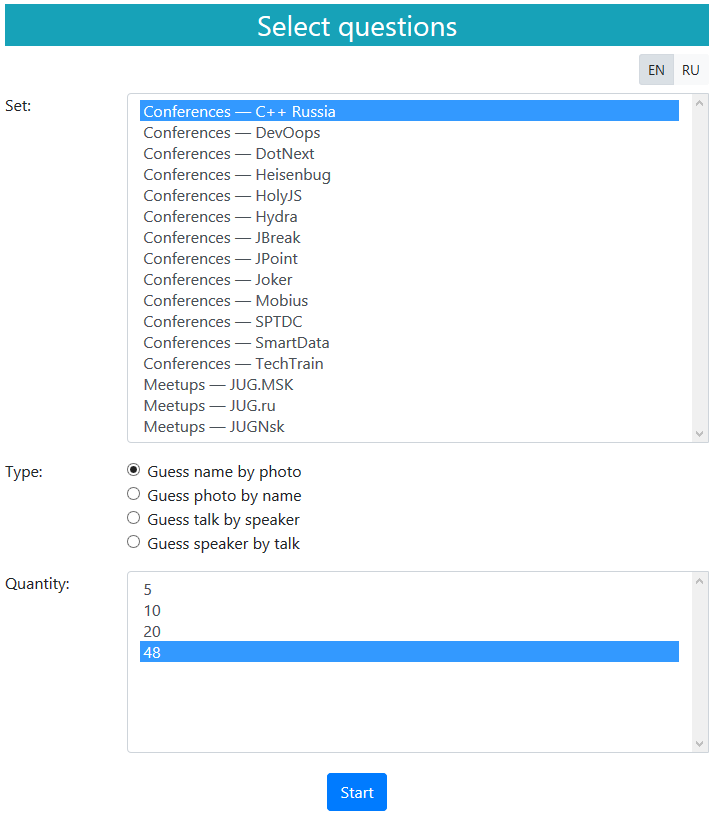
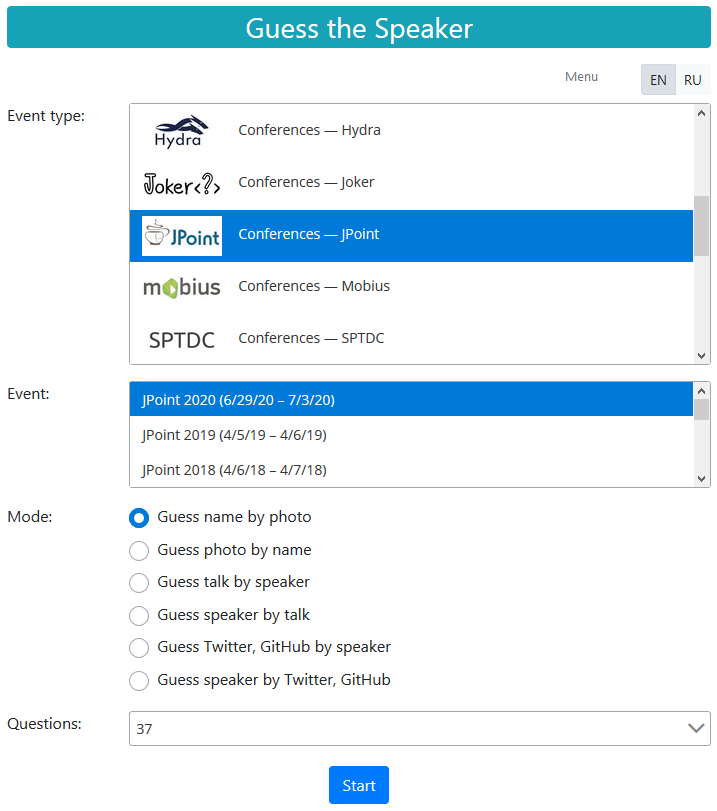
Update screenshot and description

diff --git a/README.md b/README.md
@@ -5,7 +5,13 @@
 
 ![Screenshot](/images/screenshot.png)
 
-Guess name by photo, photo by name, talk by speaker or speaker by talk.
+Available modes:
+* guess name by photo;
+* guess photo by name;
+* guess talk by speaker;
+* guess speaker by talk;
+* guess *Twitter*, *GitHub* by speaker;
+* guess speaker by *Twitter*, *GitHub*.
 
 ## Running
 
